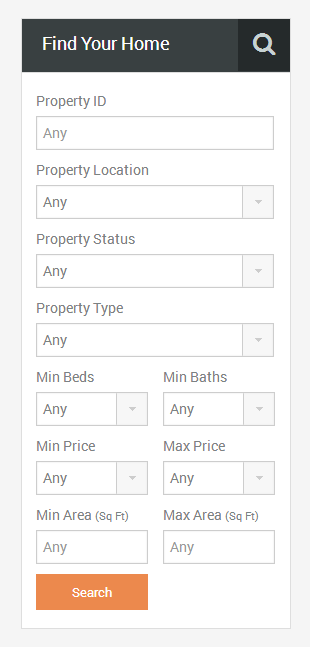
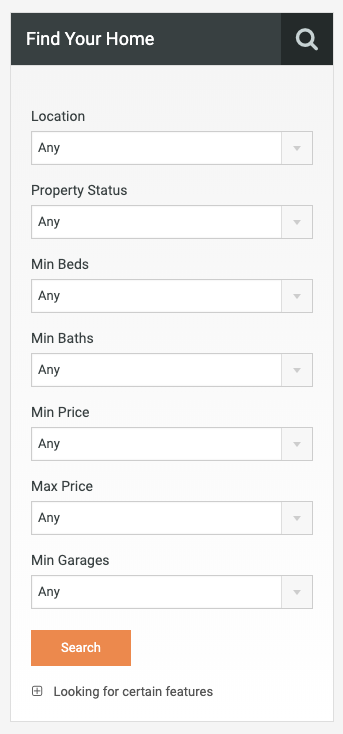
Improved “Agents & Search Form” widgets setup guide.

diff --git a/docs/agent-related-properties-widget.md b/docs/agent-related-properties-widget.md
@@ -1,19 +1,19 @@
-# Agents Related Properties
+# Agent Related Properties Widget
 
-- Go to **Dashboard → Appearance → Widgets** and look for **RealHomes - Agents widget**.
+- Go to **Dashboard → Appearance → Widgets** and look for **RealHomes - Agent Related Properties** widget.
 
-![Real Homes Documentation](images/widgets/agents-widget.png)
+![Real Homes Documentation](images/widgets/agent-related-properties-widget.png)
 
-- Use this widget in a sidebar and provide its title. 
+- Use this widget in a sidebar and provide its title, select an agent and configure other related settings. 
 
-![Real Homes Documentation](images/widgets/agents-widget-settings.png)
+![Real Homes Documentation](images/widgets/agent-related-properties-widget-settings.png)
 
-Now check out the frontend of your site and you will have the **Agents** widget working for your site.
+Now check out the frontend of your site and you will have the **Agent Related Properties** widget working for your site.
 
 **Classic**
 
-![Real Homes Documentation](images/widgets/agents-widget-frontend.png)
+![Real Homes Documentation](images/widgets/agent-related-properties-widget-frontend.png)
 
 **Modern**
 
-![Real Homes Documentation](images/widgets/agents-widget-frontend-mod.png)
+![Real Homes Documentation](images/widgets/agent-related-properties-widget-frontend-mod.png)

diff --git a/docs/agents-widget.md b/docs/agents-widget.md
@@ -1,6 +1,6 @@
 # Agents Widget
 
-- Go to **Dashboard → Appearance → Widgets** and look for **RealHomes - Agents widget**.
+- Go to **Dashboard → Appearance → Widgets** and look for **RealHomes - Agents** widget.
 
 ![Real Homes Documentation](images/widgets/agents-widget.png)
 
@@ -8,3 +8,12 @@
 
 ![Real Homes Documentation](images/widgets/agents-widget-settings.png)
 
+Now check out the frontend of your site and you will have the **Agents** widget working for your site.
+
+**Classic**
+
+![Real Homes Documentation](images/widgets/agents-widget-frontend.png)
+
+**Modern**
+
+![Real Homes Documentation](images/widgets/agents-widget-frontend-mod.png)

diff --git a/docs/advance-search-widget.md b/docs/advance-search-widget.md
@@ -1,6 +1,6 @@
 # Advance Search Widget
 
-- Go to **Dashboard → Appearance → Widgets** and look for **RealHomes - Advance Search widget**.
+- Go to **Dashboard → Appearance → Widgets** and look for **RealHomes - Advance Search** widget.
 
 ![Real Homes Documentation](images/widgets/advance-search-widget.png)
 
@@ -10,4 +10,10 @@
 
 - Now check out the front end of your site and you will have the **Advance Search** widget working for your site. 
 
+**Classic**
+
 ![Real Homes Documentation](images/widgets/advance-search-widget-frontend.png)
+
+**Modern**
+
+![Real Homes Documentation](images/widgets/advance-search-widget-frontend-mod.png)
